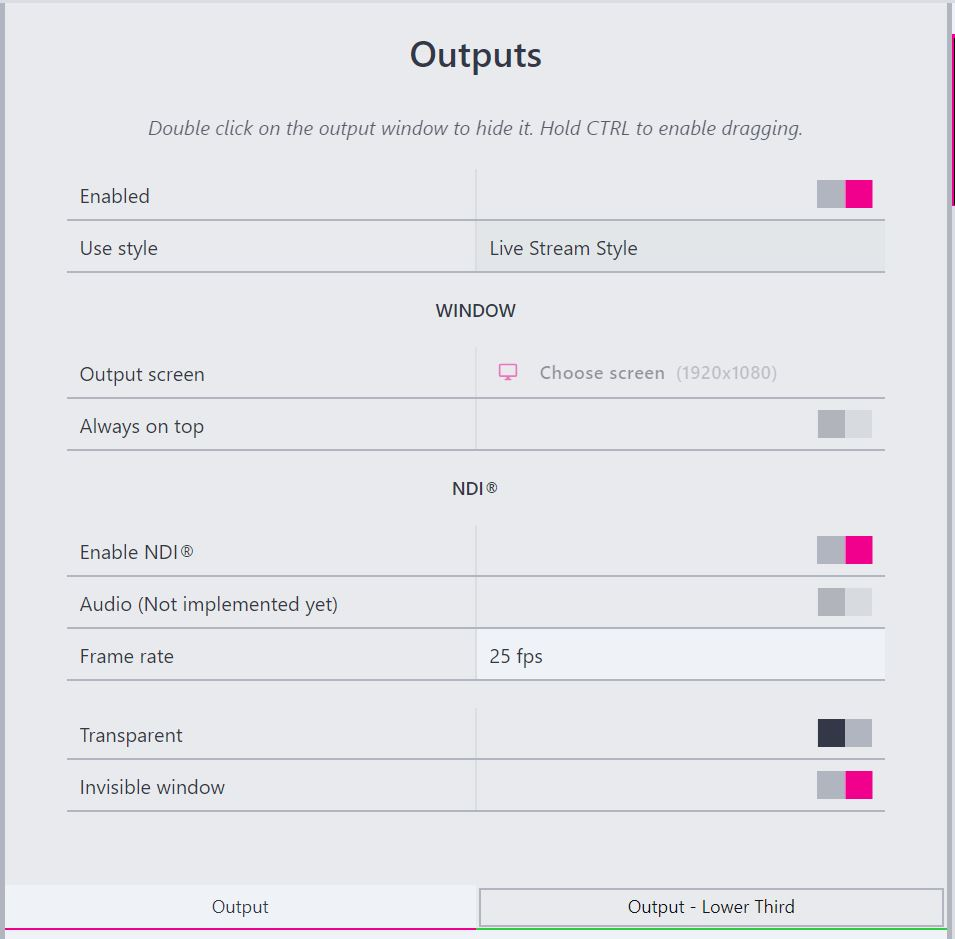
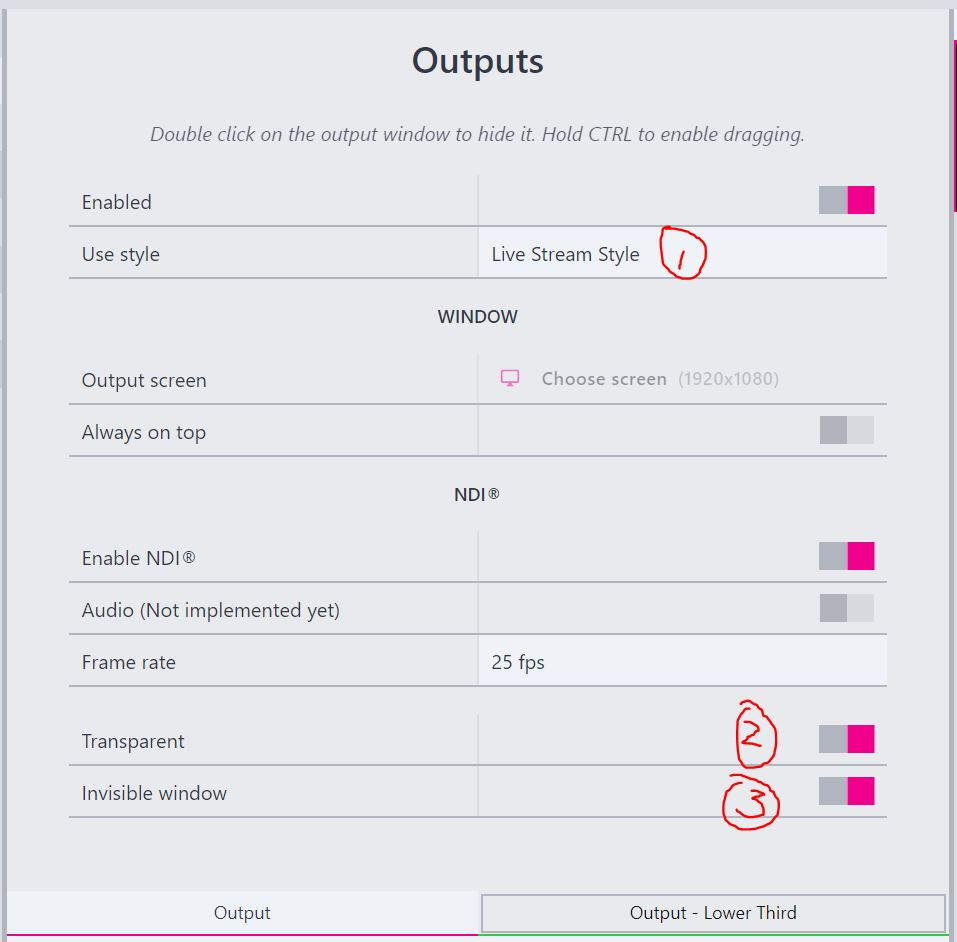
freeshow hide preview window

diff --git a/content/posts/2024/Notes - FreeShow.md b/content/posts/2024/Notes - FreeShow.md
@@ -9,14 +9,14 @@ tags:
   - Presentation
 draft: false
 ---
-FreeShow is our free presentation software similar to ProPresenter.
+
+FreeShow is our free presentation software alternative to ProPresenter.
 
 ## Edit
 ### Keyboard Shotcuts
 * Split: Alt+Enter
 
 ## Bible
-
 
 ### How to create a bilingual Bible versions slides?
 * Select "NIV" and "新标点和合本" from the left panel of the scriptures drawer, right click and press "New collection"
@@ -72,6 +72,13 @@ To achieve this, there're several steps:
 ![freeshow style livestream](/images/2024/freeshow-style-livestream.JPG)
 
 ![freeshow output livestream](/images/2024/freeshow-output-livestream.JPG)
+
+### How to make the preview screen bigger?
+If there're two or more output windows, each one shows out is smaller.
+
+To make it shows out only one preview window, right-click on the title of other windows and select `Hide from preview`.
+
+See also [Make the output screen bigger](https://github.com/ChurchApps/FreeShow/issues/1059)
 
 ### Stage View
 https://github.com/ChurchApps/FreeShow/issues/1013
